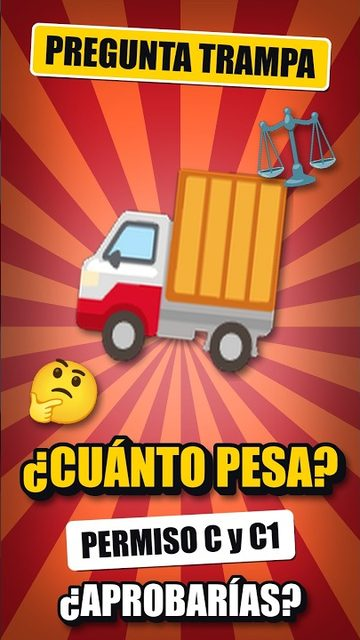
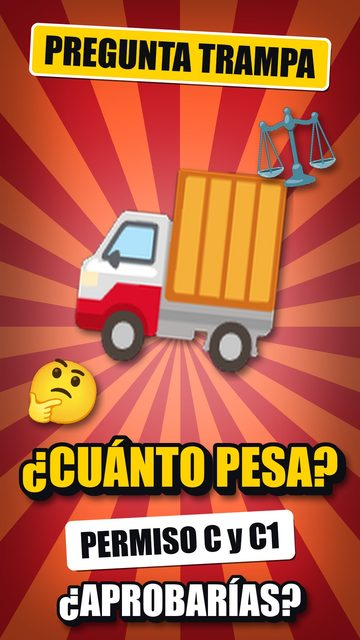
Actualiza la web (16 vídeos, 62 preguntas)

diff --git a/camion/index.html b/camion/index.html
@@ -267,8 +267,11 @@ h1 em{display:block;font-style:normal;color:var(--amarillo)}
       <h2>Preguntas en vídeo</h2>
       <p>Una pregunta explicada en menos de un minuto.</p>
     </div>
-    <div class="chips" role="group" aria-label="Filtrar vídeos por tema"></div>
+    <div class="chips" role="group" aria-label="Filtrar vídeos por tema"><button class="chip activo" type="button" data-f="todos" aria-pressed="true">Todos</button><button class="chip" type="button" data-f="masas" aria-pressed="false">Masas y dimensiones</button></div>
     <ul class="rejilla">
+<li class="video" data-s="masas"><a href="https://www.youtube.com/shorts/tyW5qj9fTRE" data-yt="tyW5qj9fTRE" data-vertical="1" target="_blank" rel="noopener">
+<span class="marco"><img src="img/videos/tyW5qj9fTRE.jpg" width="360" height="640" loading="lazy" alt=""><span class="dur">0:44</span></span>
+<span class="v-tema">Masas y dimensiones</span><span class="v-tit">Pregunta trampa del carnet de camión: tren de carretera de 2 + 3 ejes 🚚</span></a></li>
       <li><a class="todos" href="https://www.youtube.com/@AprobariasCamionC/shorts" target="_blank" rel="noopener">Más preguntas en el canal<span>Ver todas</span></a></li>
     </ul>
   </div>
